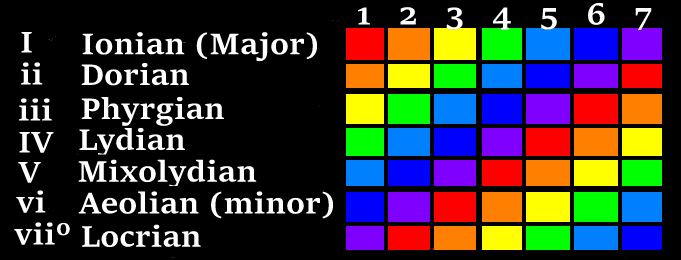
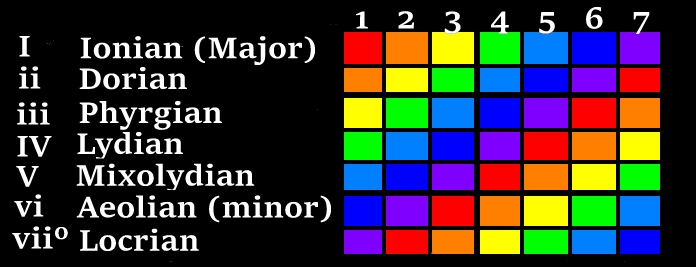
Update some stuff
* Visuals
* Update images so they're smaller and a little better centered

diff --git a/src/App.tsx b/src/App.tsx
@@ -10,6 +10,12 @@ const NOTES = [
 
 const synth = new Tone.Synth().toDestination()
 
+// TODO
+// * Legend always visible on top
+// * Play row
+// * modal background
+// * Rotation degrees modulo 360
+
 function App() {
 
   const [noteRotation, setNoteRotation] = useState(0)
@@ -32,32 +38,35 @@ function App() {
   //   })
   // }
 
-  let legendClassName = 'modal'
-  if (!isLegendVisible) legendClassName += ' hidden'
+  // let legendClassName = 'modal'
+  // if (!isLegendVisible) legendClassName += ' hidden'
   let instructionsClassName = 'modal'
   if (!isInstructionsVisible) instructionsClassName += ' hidden'
 
 
   return (
     <div className="App">
-      <div id='legend' onClick={() => setLegendVisible(false)} className={legendClassName}><img src='legend.png' /></div>
+      { /* <div id='legend' onClick={() => setLegendVisible(false)} className={legendClassName}><img src='legend.png' /></div> */ }
+      <div id='legend'><img src='legend.png' /></div>
       <div id='instructions' onClick={() => setInstructionsVisible(false)} className={instructionsClassName}><img src='instructions.png' /></div>
       <div id='help-buttons'>
-        <h2 onClick={() => setLegendVisible(!isLegendVisible)}>Show Legend</h2>
-        <h2 onClick={() => setInstructionsVisible(!isInstructionsVisible)}>Show Instructions</h2>
+        {/* <h2 onClick={() => setLegendVisible(!isLegendVisible)}>Show Legend</h2> */ }
+        <h2 onClick={() => setInstructionsVisible(!isInstructionsVisible)}>?</h2>
       </div>
-      <div id='note-wheel-buttons' className='rotate-buttons'>
-        <h2>Note Rotation</h2>
-        <div>
-          <div onClick={incrementNoteRotation}>⇧</div>
-          <div onClick={decrementNoteRotation}>⇩</div>
+      <div id='wheel-buttons'>
+        <div id='note-wheel-buttons' className='rotate-buttons'>
+          <h2>Select Key</h2>
+          <div>
+            <div onClick={incrementNoteRotation}>⇧</div>
+            <div onClick={decrementNoteRotation}>⇩</div>
+          </div>
         </div>
-      </div>
-      <div id='line-wheel-buttons' className='rotate-buttons'>
-        <h2>Color Rotation</h2>
-        <div>
-          <div onClick={incrementLineRotation}>⇧</div>
-          <div onClick={decrementLineRotation}>⇩</div>
+        <div id='line-wheel-buttons' className='rotate-buttons'>
+          <h2>Select Mode</h2>
+          <div>
+            <div onClick={incrementLineRotation}>⇧</div>
+            <div onClick={decrementLineRotation}>⇩</div>
+          </div>
         </div>
       </div>
       <div id='wheel-container'>

diff --git a/src/App.css b/src/App.css
@@ -10,9 +10,24 @@ body {
   justify-content: space-between;
 }
 
-#help-buttons {
+#help-buttons h2 {
   cursor: pointer;
-  /* font-size: 24px; */
+  font-size: 36px;
+  position: fixed;
+  bottom: 5%;
+  right: 5%;
+  border-radius: 100%;
+  background-color: purple;
+  width: 50px;
+  height: 50px;
+  display: flex;
+  align-items: center;
+  justify-content: space-around;
+  transition: filter 0.2s;
+}
+
+#help-buttons h2:hover {
+  filter: brightness(150%);
 }
 
 #wheel-container {
@@ -29,39 +44,36 @@ body {
 .rotate-buttons {
   display: flex;
   flex-direction: row;
-  z-index: 999; /* so they can be clicked even when corner of images are above them */
+  z-index: 10; /* so they can be clicked even when corner of images are above them */
 }
 
 .rotate-buttons div {
   cursor: pointer;
 }
 
-#note-wheel-buttons {
+#wheel-buttons {
+  display: flex;
+  flex-direction: row;
+  align-items: center;
+  justify-content: space-around;
+  width: 50%;
 }
+
+#note-wheel-buttons { }
 
 #note-wheel-buttons div {
   font-size: 36px;
 }
 
-#line-wheel-buttons {
-}
+#line-wheel-buttons { }
 
 #line-wheel-buttons div {
   font-size: 36px;
 }
 
-#quality-wheel {
-
-}
-
-#note-wheel {
-  margin-top: -2px;
-}
-
-#line-wheel {
-  margin-top: 4px;
-  margin-left: 2px;
-}
+#quality-wheel { }
+#note-wheel { }
+#line-wheel { }
 
 .rotatable {
   transition: transform 0.3s
@@ -69,7 +81,7 @@ body {
 
 .modal {
   position: absolute;
-  z-index: 9999;
+  z-index: 20;
   left: 30%;
   top: 20%;
 }
